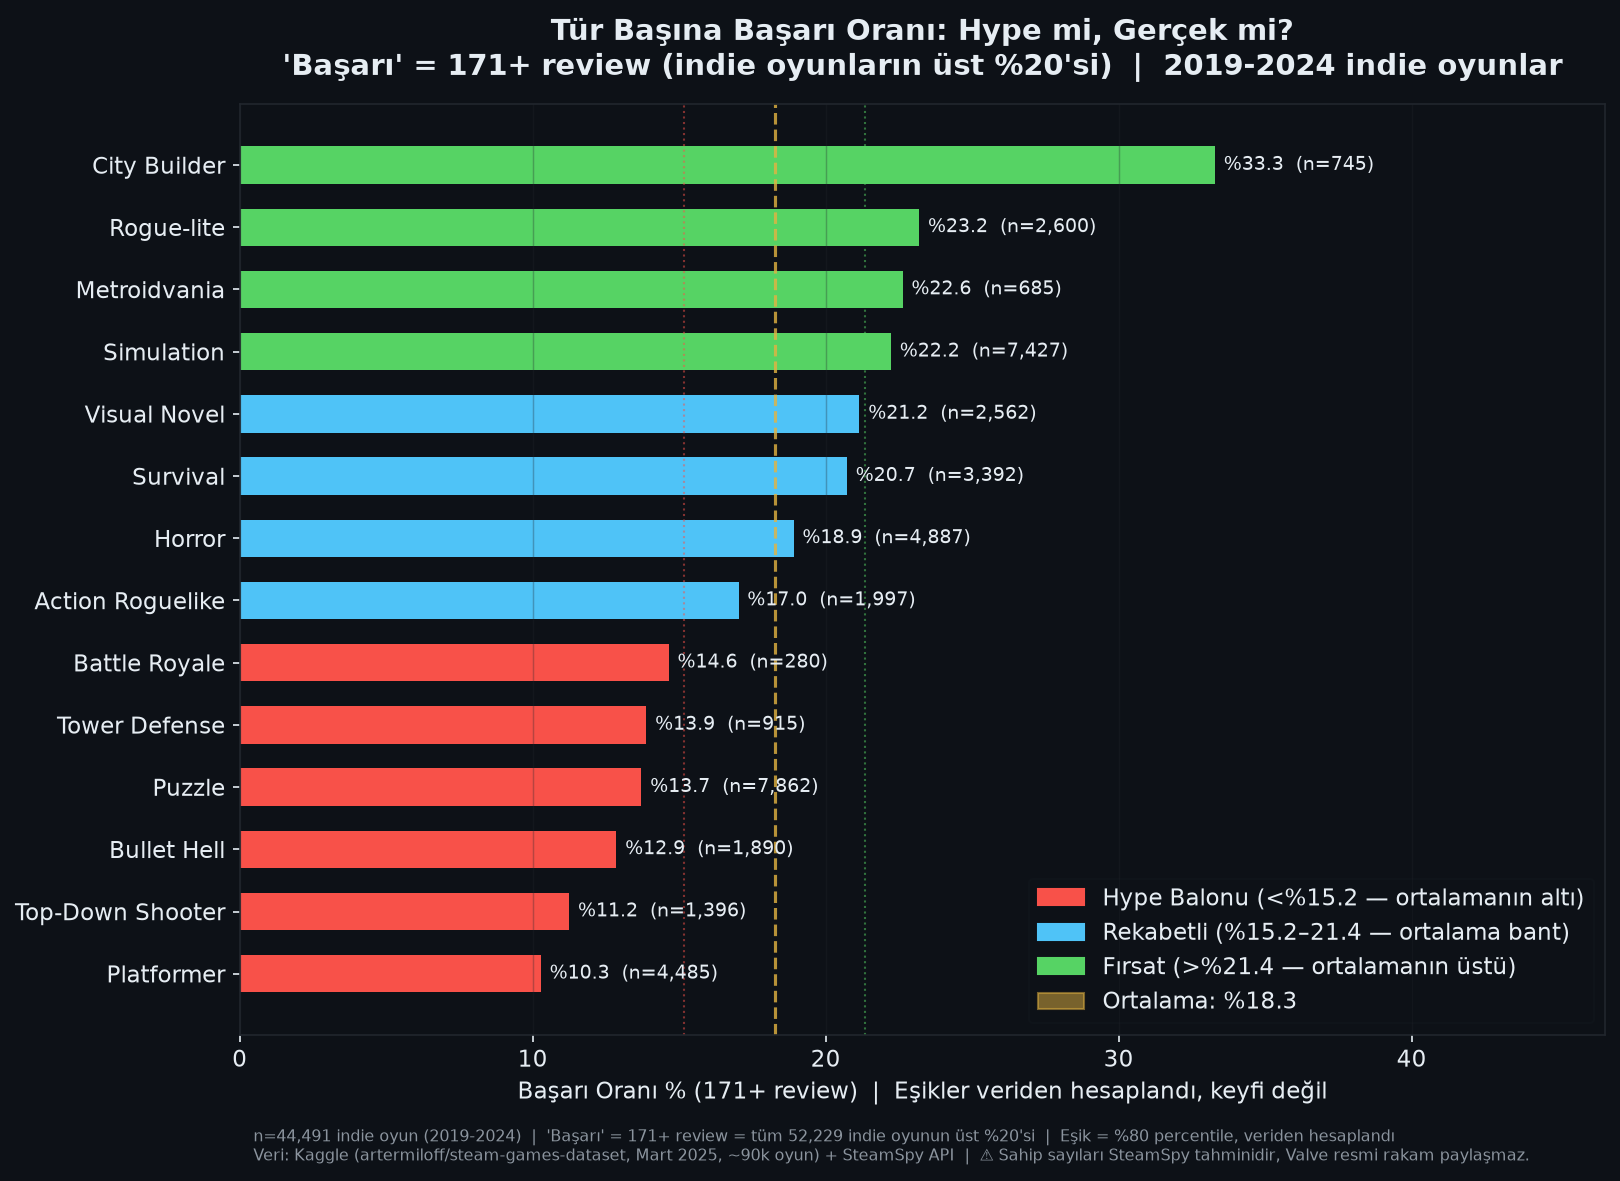
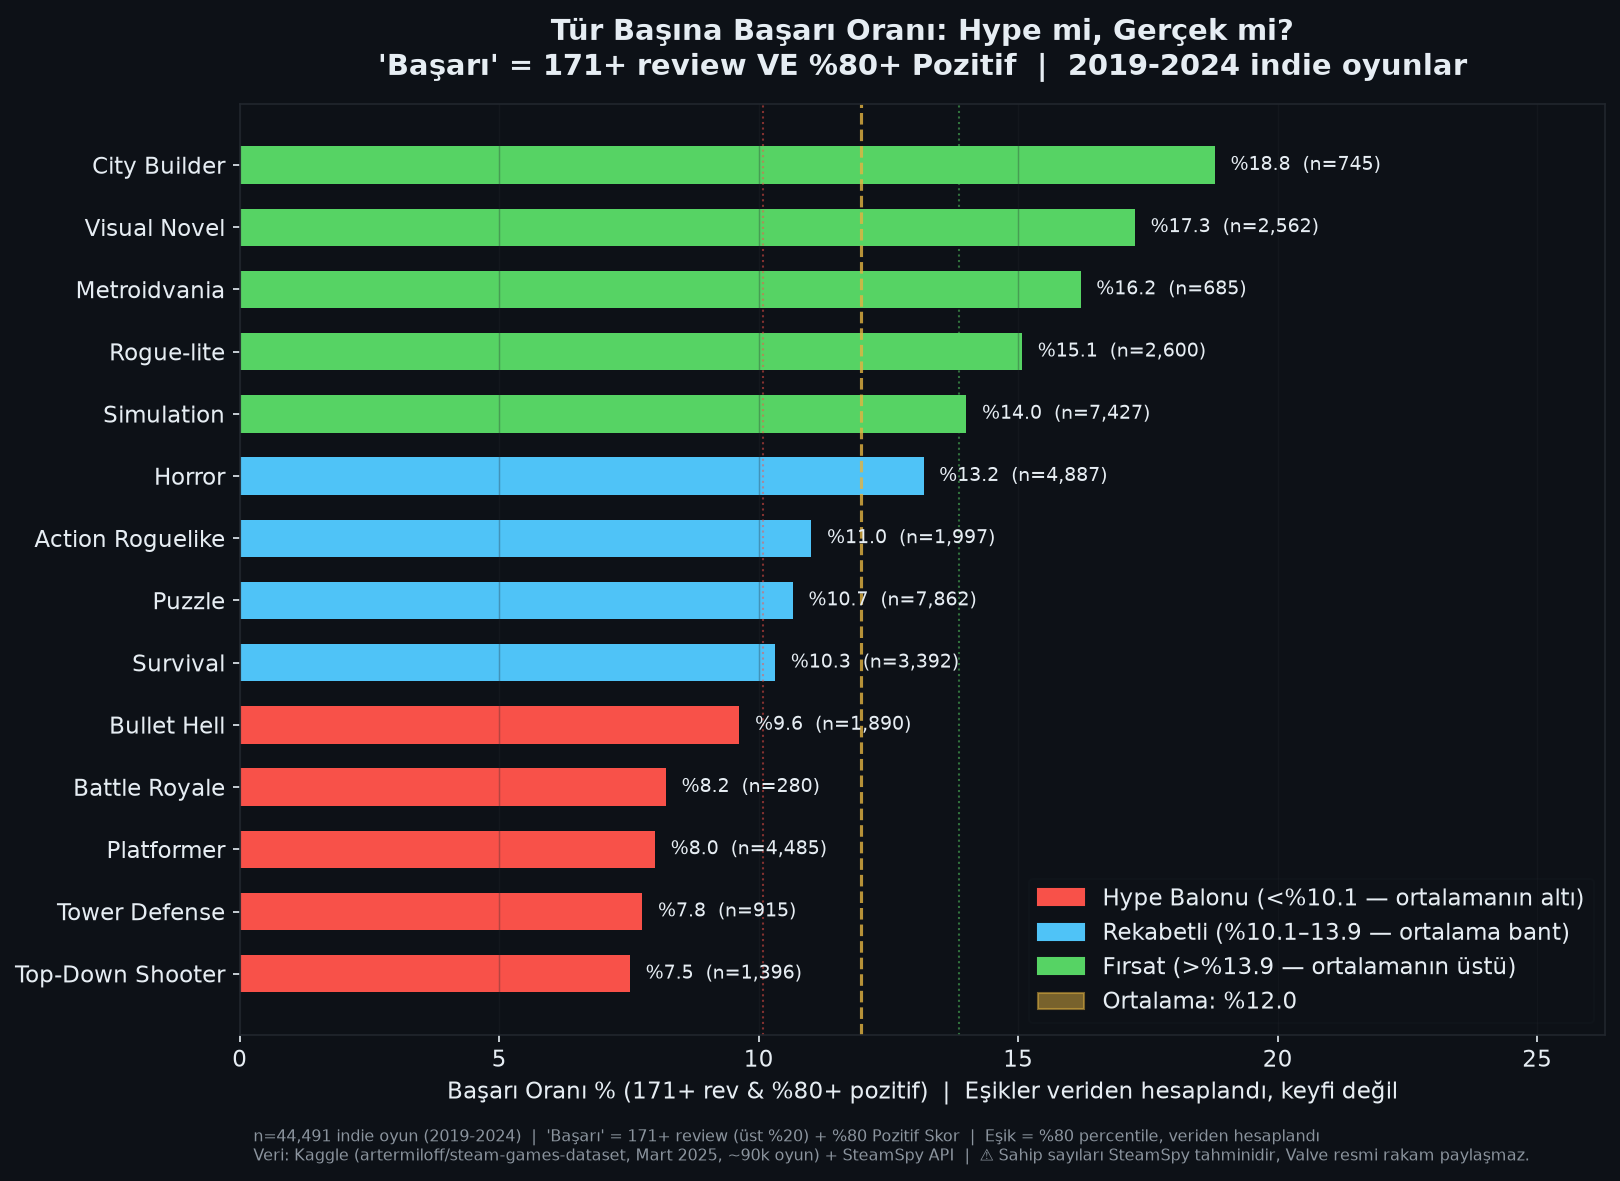
feat: dual-metric basari tanimi (gorunurluk + kalite)

diff --git a/src/visualizer.py b/src/visualizer.py
@@ -51,16 +51,18 @@ MIN_REVIEWS_FOR_QUALITY = 10    # Kalite analizi için minimum review sayısı
 # EŞİK KESİNLİKLE VERİDEN HESAPLANIR — kodda sabit sayı yok.
 # calc_success_threshold() fonksiyonu %80 percentile'ı hesaplar.
 
-def calc_success_threshold(df) -> tuple[int, float]:
+def calc_success_threshold(df) -> tuple[int, int, int]:
     """
-    Başarı eşiğini veriden hesapla: indie oyunların %80 percentile review sayısı.
-    Yani 'başarılı' = tüm indie oyunların üst %20'si.
-    Döndürür: (eşik_değeri, percentile)
+    Başarı eşiğini veriden hesapla: 
+      1. Görünürlük: indie oyunların %80 percentile review sayısı (üst %20).
+      2. Kalite: %80+ pozitif review oranı (Steam 'Very Positive').
+    Döndürür: (review_thresh, quality_thresh, n_indie)
     """
     indie = df[df["is_indie"] & (df["total_reviews"] > 0)]
-    threshold = int(indie["total_reviews"].quantile(0.80))
+    review_thresh = int(indie["total_reviews"].quantile(0.80))
+    quality_thresh = 80
     n_indie   = len(indie)
-    return threshold, n_indie
+    return review_thresh, quality_thresh, n_indie
 
 
 # ---------------------------------------------------------------------------
@@ -161,7 +163,7 @@ def chart_hype_vs_reality(df):
     Eşik: veriden hesaplanır (%80 percentile) — keyfi sayı yok.
     """
     # Eşiği VERİDEN hesapla
-    success_threshold, n_indie_total = calc_success_threshold(df)
+    success_threshold, quality_threshold, n_indie_total = calc_success_threshold(df)
 
     indie = df[df["is_indie"] & df["release_year"].between(2019, 2024)].copy()
     n_total = len(indie)
@@ -183,8 +185,11 @@ def chart_hype_vs_reality(df):
         if len(sub) < 30:
             continue
         total   = len(sub)
-        # Eşik veriden gelir: %80 percentile = {success_threshold} review
-        success = (sub["total_reviews"] >= success_threshold).sum()
+        # Eşik veriden gelir: %80 percentile = {success_threshold} review VE %80+ pozitif
+        success = (
+            (sub["total_reviews"] >= success_threshold) & 
+            (sub["review_score"] >= quality_threshold)
+        ).sum()
         rate    = success / total * 100
         rows.append({"tag": tag, "total": total, "rate": rate})
 
@@ -235,13 +240,13 @@ def chart_hype_vs_reality(df):
     ax.legend(handles=legend, framealpha=0.15, edgecolor=C["grid"], loc="lower right")
 
     ax.set_title("Tür Başına Başarı Oranı: Hype mi, Gerçek mi?\n"
-                 f"'Başarı' = {success_threshold}+ review (indie oyunların üst %20'si)  |  2019-2024 indie oyunlar",
+                 f"'Başarı' = {success_threshold}+ review VE %{quality_threshold}+ Pozitif  |  2019-2024 indie oyunlar",
                  fontweight="bold", pad=14)
-    ax.set_xlabel(f"Başarı Oranı % ({success_threshold}+ review)  |  Eşikler veriden hesaplandı, keyfi değil")
+    ax.set_xlabel(f"Başarı Oranı % ({success_threshold}+ rev & %{quality_threshold}+ pozitif)  |  Eşikler veriden hesaplandı, keyfi değil")
     ax.set_xlim(0, stats["rate"].max() * 1.4)
     ax.grid(True, axis="x", alpha=0.3)
     _note(ax, f"n={n_total:,} indie oyun (2019-2024)  |  "
-              f"'Başarı' = {success_threshold}+ review = tüm {n_indie_total:,} indie oyunun üst %20'si  |  "
+              f"'Başarı' = {success_threshold}+ review (üst %20) + %{quality_threshold} Pozitif Skor  |  "
               f"Eşik = %80 percentile, veriden hesaplandı")
 
     fig.tight_layout()

diff --git a/src/insight_engine.py b/src/insight_engine.py
@@ -77,10 +77,18 @@ def _load(snapshot="march2025") -> pd.DataFrame:
     return df
 
 
-def _success_threshold(df: pd.DataFrame) -> tuple[int, int]:
-    """Başarı eşiği = indie oyunların %80 percentile review sayısı (üst %20)."""
+def _success_threshold(df: pd.DataFrame) -> tuple[int, int, int]:
+    """
+    Basari esigi — iki kriter birden:
+      1. Gorunurluk: %80 percentile review sayisi (ust %20)
+      2. Kalite   : %80+ pozitif review orani (Steam 'Very Positive')
+    Ikisini birden saglayanlar 'basarili' sayilir.
+    """
     indie = df[df["is_indie"] & (df["total_reviews"] > 0)]
-    return int(indie["total_reviews"].quantile(0.80)), len(indie)
+    review_thresh = int(indie["total_reviews"].quantile(0.80))
+    quality_thresh = 80.0  # Steam'in 'Very Positive' esigi
+    n_indie = len(indie)
+    return review_thresh, int(quality_thresh), n_indie
 
 
 # ---------------------------------------------------------------------------
@@ -92,7 +100,7 @@ def insight_hype_balloon(df: pd.DataFrame) -> dict:
     Soru: Hangi türlerde oyun sayısı (arz) çok ama başarı oranı düşük?
     Cevap: Tür başına başarı oranı, veri-tabanlı eşikle sınıflandırılır.
     """
-    thresh, n_indie_total = _success_threshold(df)
+    thresh, quality_thresh, n_indie_total = _success_threshold(df)
     indie = df[df["is_indie"] & df["release_year"].between(2019, 2024)].copy()
 
     target_tags = [
@@ -110,9 +118,13 @@ def insight_hype_balloon(df: pd.DataFrame) -> dict:
         mask = indie["tags_list"].apply(lambda t: tag in t)
         sub  = indie[mask]
         if len(sub) < 30: continue
-        total   = len(sub)
-        success = (sub["total_reviews"] >= thresh).sum()
-        rate    = round(success / total * 100, 1)
+        total = len(sub)
+        # BASARI = gorunurluk (171+ review) VE kalite (%80+ pozitif) — ikisi birden
+        success = (
+            (sub["total_reviews"] >= thresh) &
+            (sub["review_score"]  >= quality_thresh)
+        ).sum()
+        rate = round(success / total * 100, 1)
         rows.append({"tag": tag, "total": total, "success": success, "rate": rate})
 
     if not rows:
@@ -130,10 +142,11 @@ def insight_hype_balloon(df: pd.DataFrame) -> dict:
     en_firsat  = fırsatlar[0] if fırsatlar else None  # en yüksek oran
 
     yorum = (
-        f"2019-2024 arasında çıkan {len(indie):,} indie oyun analiz edildi. "
-        f"Başarı eşiği olarak {thresh}+ review kullanıldı "
-        f"(bu, tüm {n_indie_total:,} indie oyunun üst %20'sine girmek demek). "
-        f"Tüm türlerin ortalama başarı oranı %{mean_rate:.1f}. "
+        f"2019-2024 arasinda cikan {len(indie):,} indie oyun analiz edildi. "
+        f"Basari tanimi: {thresh}+ review (gorunurluk, ust %20) "
+        f"VE %{quality_thresh:.0f}+ pozitif review (Steam 'Very Positive' esigi). "
+        f"Her iki kriteri birden saglayan oyunlar 'basarili' sayildi. "
+        f"Tum turlerin ortalama basari orani %{mean_rate:.1f}. "
     )
     if en_balon:
         yorum += (
